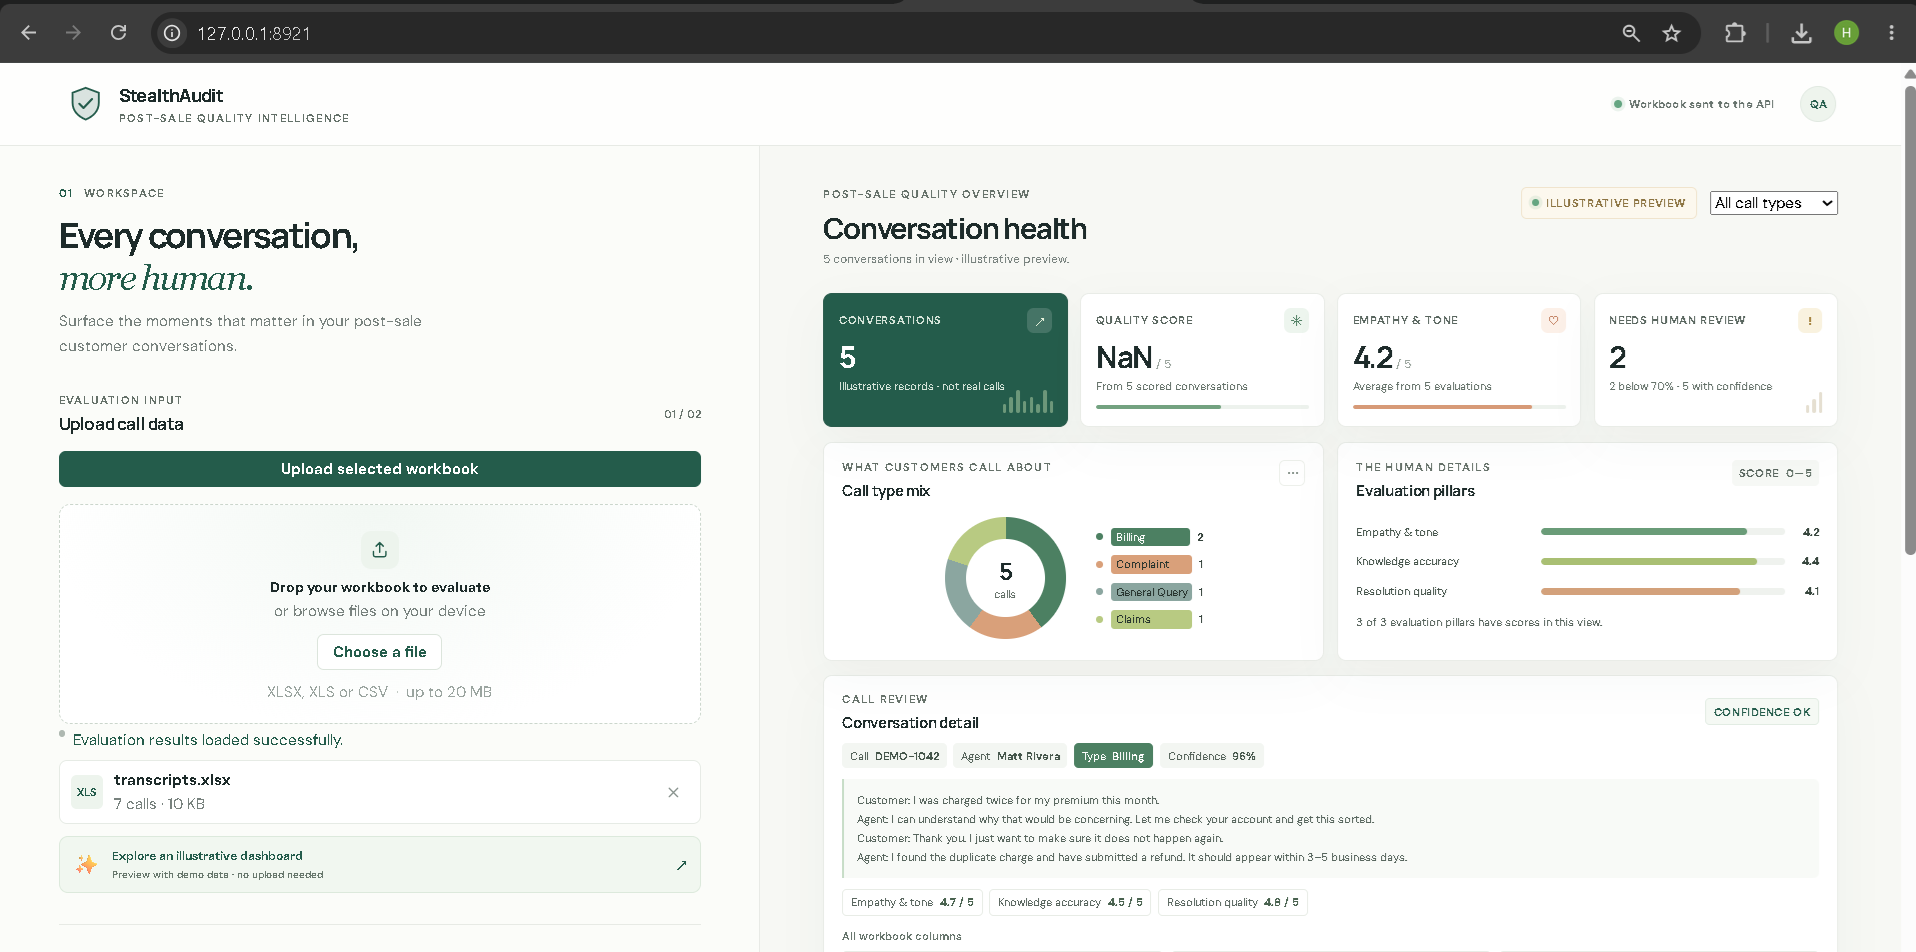
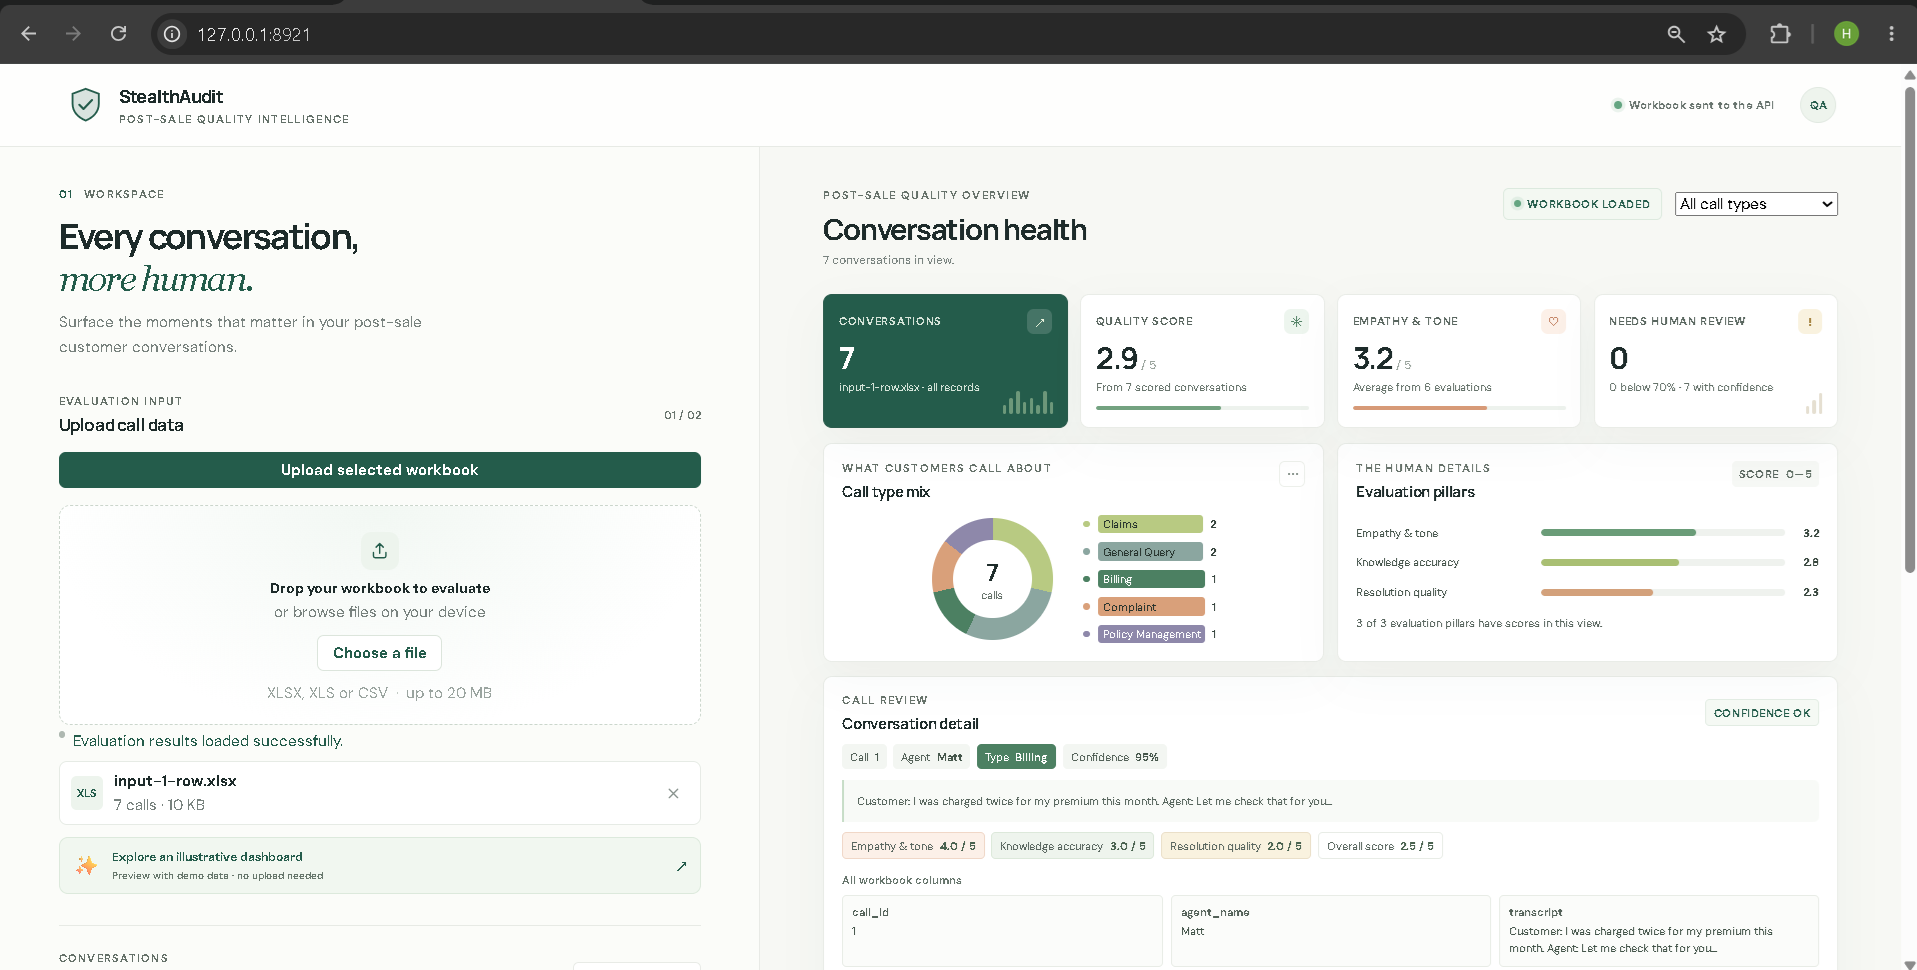
1.Screenshot image updated 2.Excel updated

diff --git a/src/postsale_ai_stealthaudit/main.py b/src/postsale_ai_stealthaudit/main.py
@@ -33,7 +33,7 @@ async def evaluate_file(file: UploadFile = File(...)):
     # -----------------------------Test--------------------------
     '''
     return FileResponse(
-        path="./data/output-ui-testing-2-rows.xlsx",
+        path="./data/output-ui-testing-multiple-rows.xlsx",
         filename="output.xlsx",
         media_type="application/vnd.openxmlformats-officedocument.spreadsheetml.sheet"
     )'''
